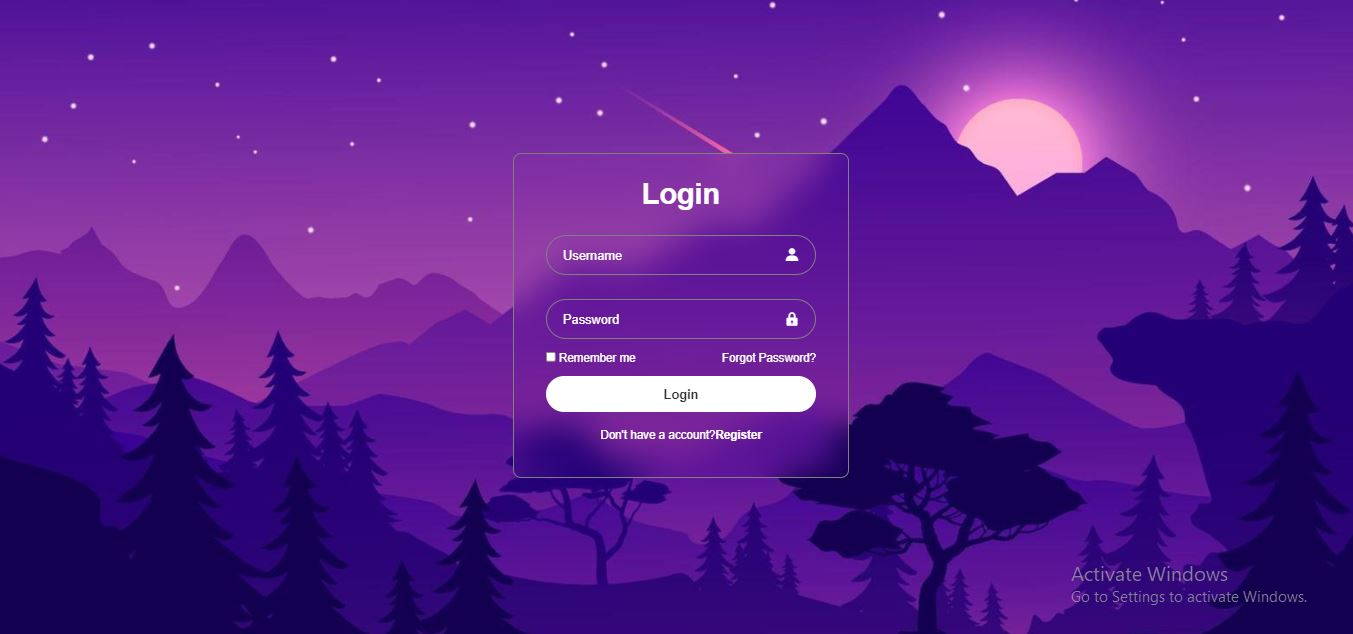
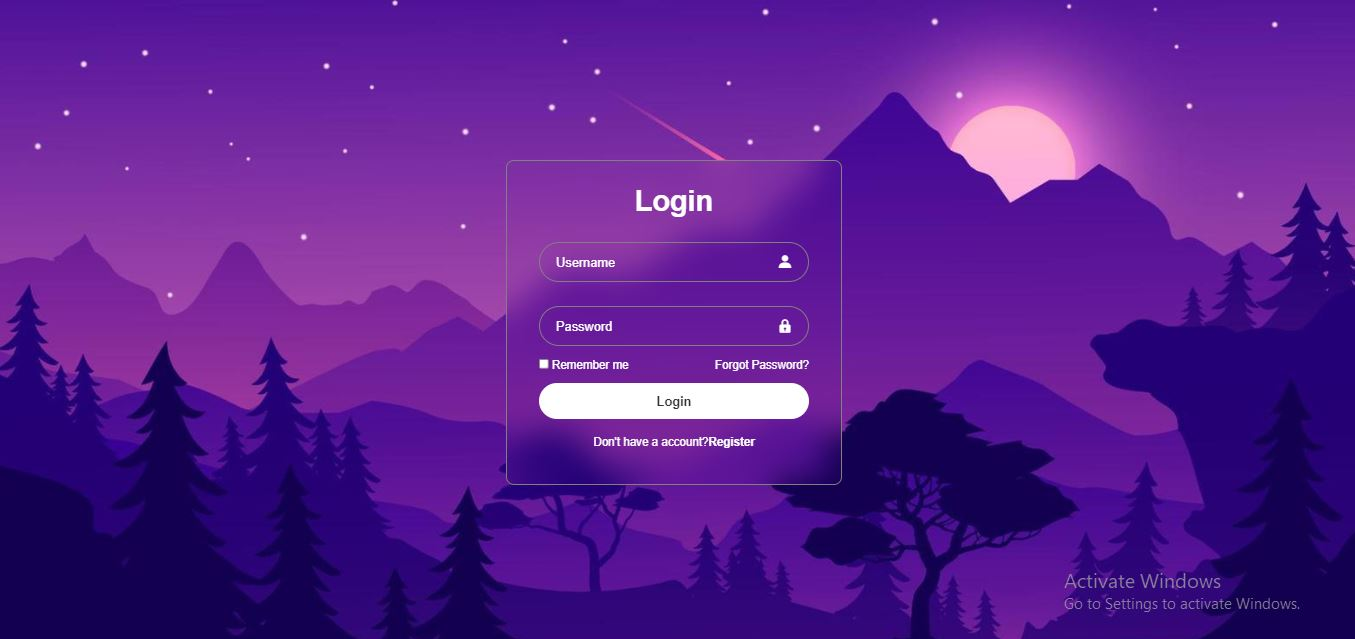
update login form

diff --git a/form.html b/form.html
@@ -18,14 +18,14 @@
             <h1>Login</h1>
 
             <div class="input-box">
-                <input type="text" placeholder="Username" required>
+                <input type="text" placeholder="Username" required id="username">
                 <div class="icons"><i class='bx bxs-user'></i></div>
 
 
 
             </div>
             <div class="input-box">
-                <input type="text" placeholder="Password" required>
+                <input type="text" placeholder="Password" required id="password">
                 <i class='bx bxs-lock'></i>
             </div>
             <div class="remember-forgot">
@@ -36,7 +36,7 @@
 
                 <a href="forget_ password.html">Forgot Password?</a>
             </div>
-            <button type="submit" class="btn"><b>Login</b></button>
+            <button type="submit" class="btn" id="submit" onClick="validate()"><b>Login</b></button>
 
 
             <div class="register-link">
@@ -44,9 +44,46 @@
 
                 </p>
             </div>
+        </form>
+
 
 
     </div>
+    <script>
 
+        function checkInput(Username, Password) {
+
+
+            if (Username == "") {
+                alert("Username must be filed");
+                return false;
+            }
+            if (Password == "") {
+                alert("Password must be filed");
+                return false;
+
+            }
+            return true;
+
+        }
+
+        function validate() {
+            let Username = document.getElementById("username").value;
+            let Password = document.getElementById("password").value;
+            console.log("hello world")
+            console.log(Username, Password)
+            const status = checkInput(Username, Password)
+            if (status) {
+                if (Username == "Formget" && Password == "formget#123") {
+                    alert("Login successfully");
+                    return true;
+                } else {
+                    alert("wrong password and username");
+
+                }
+            }
+        }
+
+    </script>
 
 </body>

diff --git a/styles.css b/styles.css
@@ -22,7 +22,7 @@
     background-color:transparent;
     border: 2px solid grey;
      backdrop-filter: blur(20px);
-      color: white;
+      color:white;
      border-radius: 10px;
      padding:30px 40px ;}
 
@@ -47,7 +47,7 @@
         border:2px solid grey ;
         border-radius:40px ;
         font-size: 16px;
-        color: white;
+        color:white;
         padding: 20px 45px 20px 20px;
      }
      .input-box input::placeholder{color:white;}

diff --git a/README.md b/README.md
@@ -3,3 +3,57 @@
 ## Using HTML CSS
 
 ![Alt text](demo_page.JPG "Demo Page")
+
+**This text is bold**
+
+_This text is italic_
+
+~~There wase a mistake~~
+
+**This is \_extremely_important**
+
+**_All this text is important_**
+
+This is <sub>subscript</sub>text
+
+This is <sup>superscript</sup>text
+
+> This text is quote
+> Use `git status` to list all new or modified files that haven't yet been committed.
+
+The background color is `#ffffff` for light mode and `#000000` for dark mode
+
+This site was built using [GitHub Pages](https://pages.github.com/).
+
+Here is a simple footnote[^1].
+
+A footnote can also have multiple lines[^2].
+
+[^1]: My reference.
+[^2]:
+    To add line breaks within a footnote, prefix new lines with 2 spaces.
+    This is a second line.
+
+100. First list item
+     - second list item
+
+- [ ] \(Optional) Open a followup issue
+
+> [!NOTE]
+> Useful information that users should know, even when skimming content.
+
+> [!TIP]
+> Helpful advice for doing things better or more easily.
+
+> [!IMPORTANT]
+> Key information users need to know to achieve their goal.
+
+> [!WARNING]
+> Urgent info that needs immediate user attention to avoid problems.
+
+> [!CAUTION]
+> Advises about risks or negative outcomes of certain actions.
+
+<!-- This content will not appear in the rendered Markdown -->
+
+s
